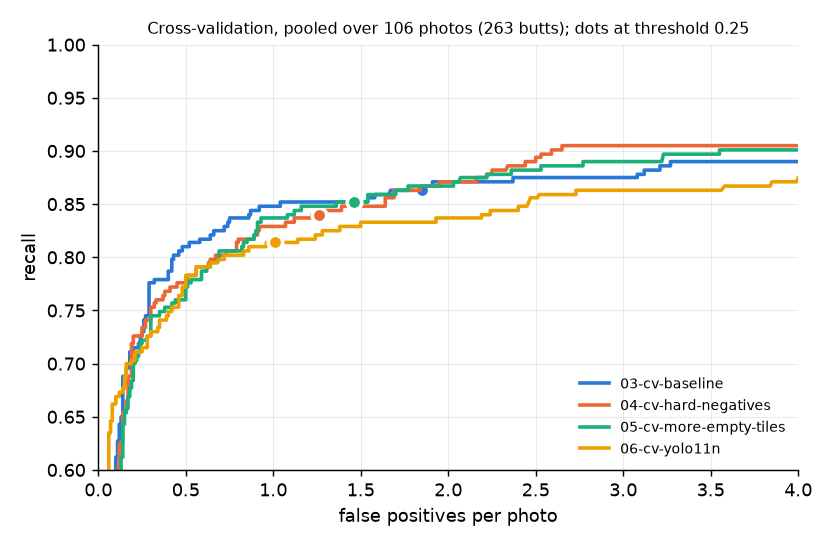
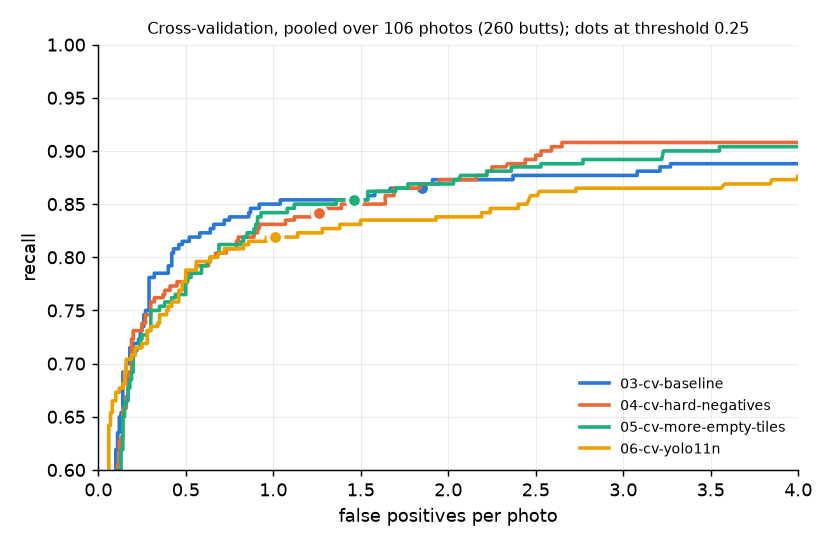
Sync pipeline from private commit 069f8a0

Changed region(s): [[0.125, 0.2491, 0.9688, 0.8407], [0.5938, 0.0311, 0.625, 0.0623]]

diff --git a/web_demo/app.js b/web_demo/app.js
@@ -24,7 +24,7 @@ const EXAMPLES = [
   ['20261001_134457', 'wide, sun, granite step and kerb'],
   ['20261001_135420', 'high angle, shade, tactile tiles'],
   ['20261001_134450', 'close-up, sun, corner with paper litter'],
-  ['20261001_134120', 'close-up, shade, one butt on tiles'],
+  ['20261001_134120', 'cigarillo end: out of scope, too unlike cigarette butts'],
   ['20261001_134126', 'high angle, shade, utility cover'],
   ['20261001_134937', 'wide, shade, blue tiles and bollards'],
   ['20261001_135001', 'wide, shade, shopfront and shutter'],

diff --git a/docs/cross-validation.md b/docs/cross-validation.md
@@ -1,6 +1,6 @@
 # Cross-validation: hard-negative tiles, butt-free tile share and model size
 
-**Scope label:** YOLO11s and YOLO11n trained on one phone session (Valencia, Spain, 2026-10-01); 5-fold cross-validation over the 106 train and val photos (263 butts), one seed per fold; folds 1–4 carry proposal-assisted labels.
+**Scope label:** YOLO11s and YOLO11n trained on one phone session (Valencia, Spain, 2026-10-01); 5-fold cross-validation over the 106 train and val photos (260 butts), one seed per fold; folds 1–4 carry proposal-assisted labels.
 
 ## Question
 
@@ -38,14 +38,14 @@ Runs are named `NN-what-it-tests`, numbered in the order they were made; `01` an
 
 | Fold | Photos | Butts | What it is |
 |---|---|---|---|
-| 0 | 19 | 46 | the frozen val split, labelled blind (no detector suggestions) |
+| 0 | 19 | 43 | the frozen val split, labelled blind (no detector suggestions) |
 | 1 | 23 | 77 | train photos, cut by 14 s time groups |
 | 2 | 21 | 72 | train photos |
 | 3 | 24 | 40 | train photos; holds every train close-up (6) and so its model learns close-ups from fold 0's 3 only |
 | 4 | 19 | 28 | train photos; holds most of the sunny photos |
 
-- **Training and scoring:** each recipe is trained once per fold on the other four folds and scored on the fold it did not see. All 20 runs trained on Kaggle's T4 machine, two at a time: 03 and 04 from one kernel, 05 and 06 each from a kernel of their own at later commits with unchanged training code. The models trained on the labels before the review of the error analysis's suspect boxes, which added 4 butts and 1 `maybe` in folds 1–4 (`error-analysis.md`); all scoring uses the reviewed labels. The shared harness (`pipeline/evaluate.py`) scores the final-epoch checkpoint (`last.pt`) on whole photos at threshold 0.25: 640 px tiles, detections mapped back to the photo and merged, a butt found when a detection's centre falls inside its box or they overlap by at least 30%, `maybe` boxes counting neither way.
-- **Pooled:** every one of the 106 photos is held out exactly once, so the pooled score is all 106 photos (263 butts), each scored by the model that did not train on it (`pipeline/cv_report.py`). The pooled curve applies one threshold to all five models of a recipe.
+- **Training and scoring:** each recipe is trained once per fold on the other four folds and scored on the fold it did not see. All 20 runs trained on Kaggle's T4 machine, two at a time: 03 and 04 from one kernel, 05 and 06 each from a kernel of their own at later commits with unchanged training code. The models trained on the labels before the review of the error analysis's suspect boxes, which added 4 butts and 1 `maybe` in folds 1–4 (`error-analysis.md`), and before the cigar-end rule (`annotation_tool/LABELING_POLICY.md`), which turned one cigarillo end seen in three fold 0 photos from `butt` into `maybe`; all scoring uses the current labels. The shared harness (`pipeline/evaluate.py`) scores the final-epoch checkpoint (`last.pt`) on whole photos at threshold 0.25: 640 px tiles, detections mapped back to the photo and merged, a butt found when a detection's centre falls inside its box or they overlap by at least 30%, `maybe` boxes counting neither way.
+- **Pooled:** every one of the 106 photos is held out exactly once, so the pooled score is all 106 photos (260 butts), each scored by the model that did not train on it (`pipeline/cv_report.py`). The pooled curve applies one threshold to all five models of a recipe.
 - **Paired comparison:** a bootstrap of 1,000 resamples of the same photos, scoring both recipes on each resample. A difference counts as real only when its 95% interval excludes zero.
 - **Matched recall:** a fixed threshold rewards any recipe that lowers its scores, so recipes are also compared at fixed recall: false positives per photo at the highest threshold whose pooled recall reaches the level (80%, 85%, 88%). The paired interval re-finds each recipe's threshold on every resample, on the same 1,000 resamples as the paired test. A resample in which a recipe never reaches the level is left out and counted.
 - **Labels:** folds 1–4 carry train labels, made with OWLv2's proposals on screen. Pooled scores therefore compare recipes with each other, not with OWLv2; the comparison with OWLv2 stays on fold 0.
@@ -59,25 +59,25 @@ Runs are named `NN-what-it-tests`, numbered in the order they were made; `01` an
 
 | | Recall | False positives per photo | Boxes per photo | Precision |
 |---|---|---|---|---|
-| 03 baseline | 86.3% (81.6–89.9%), 227 of 263 | 1.85 (1.45–2.25) | 4.46 | 0.57 |
-| 04 hard negatives | 84.0% (79.1–88.0%), 221 of 263 | 1.26 (0.98–1.57) | 3.74 | 0.65 |
-| 05 more empty tiles | 85.2% (80.4–89.0%), 224 of 263 | 1.46 (1.18–1.75) | 3.96 | 0.61 |
-| 06 YOLO11n | 81.4% (76.2–85.6%), 214 of 263 | 1.01 (0.77–1.22) | 3.39 | 0.69 |
+| 03 baseline | 86.5% (81.9–90.2%), 225 of 260 | 1.85 (1.45–2.25) | 4.46 | 0.56 |
+| 04 hard negatives | 84.2% (79.3–88.2%), 219 of 260 | 1.26 (0.98–1.57) | 3.74 | 0.64 |
+| 05 more empty tiles | 85.4% (80.6–89.2%), 222 of 260 | 1.46 (1.18–1.75) | 3.96 | 0.61 |
+| 06 YOLO11n | 81.9% (76.8–86.1%), 213 of 260 | 1.01 (0.77–1.22) | 3.39 | 0.69 |
 
 **Paired differences** (95% interval):
 
 | | Recall | False positives per photo |
 |---|---|---|
-| 04 − 03 | −2.3 points (−5.5 to +1.5): inside noise | −0.59 (−1.01 to −0.22): real |
-| 05 − 03 | −1.1 points (−3.9 to +1.7): inside noise | −0.39 (−0.71 to −0.10): real |
-| 04 − 05 | −1.2 points (−4.0 to +1.7): inside noise | −0.20 (−0.43 to +0.06): inside noise |
-| 06 − 04 | −2.6 points (−6.5 to +0.7): inside noise | −0.25 (−0.50 to −0.03): real |
+| 04 − 03 | −2.3 points (−5.6 to +1.5): inside noise | −0.59 (−1.01 to −0.22): real |
+| 05 − 03 | −1.1 points (−4.0 to +1.6): inside noise | −0.39 (−0.71 to −0.10): real |
+| 04 − 05 | −1.2 points (−4.0 to +1.8): inside noise | −0.20 (−0.43 to +0.06): inside noise |
+| 06 − 04 | −2.3 points (−6.4 to +0.9): inside noise | −0.25 (−0.50 to −0.03): real |
 
 **Per fold, at threshold 0.25** (butts found; false positives per photo):
 
 | Fold | Butts | 03 found | 04 found | 05 found | 06 found | 03 FP | 04 FP | 05 FP | 06 FP |
 |---|---|---|---|---|---|---|---|---|---|
-| 0 (val, blind) | 46 | 38 | 38 | 39 | 36 | 1.58 | 0.84 | 1.58 | 0.74 |
+| 0 (val, blind) | 43 | 36 | 36 | 37 | 35 | 1.58 | 0.84 | 1.58 | 0.74 |
 | 1 | 77 | 61 | 54 | 60 | 57 | 2.17 | 1.57 | 2.17 | 1.30 |
 | 2 | 72 | 62 | 62 | 59 | 59 | 2.81 | 1.90 | 1.48 | 0.95 |
 | 3 (close-ups) | 40 | 39 | 40 | 38 | 38 | 1.62 | 1.21 | 1.17 | 1.21 |
@@ -89,21 +89,21 @@ Runs are named `NN-what-it-tests`, numbered in the order they were made; `01` an
 
 | Recall at least | 03 | 04 | 05 | 06 |
 |---|---|---|---|---|
-| 80% | 0.43 (0.22–0.98), threshold 0.69 | 0.67 (0.26–1.57), threshold 0.48 | 0.69 (0.31–1.19), threshold 0.47 | 0.72 (0.33–2.52), threshold 0.35 |
-| 85% | 1.04 (0.39–3.81), threshold 0.42 | 1.64 (0.60–2.63), threshold 0.17 | 1.36 (0.65–3.08), threshold 0.26 | 2.46 (0.61–6.01), threshold 0.09 |
-| 88% | 3.12 (0.63–6.76), threshold 0.12 | 2.26 (0.89–5.18), threshold 0.10 | 2.36 (0.89–8.37), threshold 0.13 | 5.18 (1.26–8.03), threshold 0.03 |
+| 80% | 0.42 (0.21–0.95), threshold 0.70 | 0.64 (0.24–1.50), threshold 0.50 | 0.64 (0.29–1.09), threshold 0.51 | 0.64 (0.29–2.44), threshold 0.38 |
+| 85% | 0.92 (0.36–4.14), threshold 0.45 | 1.39 (0.58–2.60), threshold 0.21 | 1.12 (0.62–2.91), threshold 0.32 | 2.40 (0.56–5.98), threshold 0.10 |
+| 88% | 3.08 (0.59–6.92), threshold 0.13 | 2.22 (0.83–4.76), threshold 0.10 | 2.22 (0.82–8.13), threshold 0.15 | 4.25 (1.21–8.03), threshold 0.04 |
 
 **Paired differences at matched recall** (false positives per photo, 95% interval; `runs/cv_<A>_vs_<B>.json`):
 
 | Recall at least | 04 − 03 | 05 − 03 | 04 − 05 | 06 − 04 |
 |---|---|---|---|---|
-| 80% | +0.24 (−0.15 to +0.79) | +0.26 (−0.13 to +0.57) | −0.02 (−0.36 to +0.55) | +0.05 (−0.29 to +1.31) |
-| 85% | +0.60 (−1.70 to +1.13) | +0.32 (−1.48 to +1.26) | +0.28 (−0.92 to +0.88) | +0.82 (−0.30 to +3.84) |
-| 88% | −0.87 (−4.11 to +1.22) | −0.76 (−3.19 to +3.31) | −0.10 (−4.89 to +1.29) | +2.93 (−0.06 to +5.57) |
+| 80% | +0.23 (−0.13 to +0.76) | +0.23 (−0.10 to +0.54) | 0.00 (−0.30 to +0.60) | 0.00 (−0.33 to +1.31) |
+| 85% | +0.46 (−1.88 to +1.12) | +0.20 (−1.62 to +1.18) | +0.26 (−0.87 to +0.89) | +1.01 (−0.33 to +3.83) |
+| 88% | −0.86 (−4.27 to +1.09) | −0.86 (−3.52 to +2.84) | 0.00 (−4.74 to +1.23) | +2.03 (−0.12 to +5.48) |
 
-Every interval includes zero. 06 never reaches 85% recall in 46 of the 1,000 resamples and 88% in 320; 04 never reaches 88% in 16 (17 in the 04 − 05 pair); 05 never reaches 88% in 1. Those resamples are left out.
+Every interval includes zero. 06 never reaches 85% recall in 37 of the 1,000 resamples and 88% in 281; 04 never reaches 88% in 13 (14 in the 04 − 05 pair); 05 never reaches 88% in 1. Those resamples are left out.
 
-The highest recall each recipe reaches, at the lowest threshold kept (0.01), is 93.9% (03), 92.4% (04), 93.5% (05) and 89.0% (06).
+The highest recall each recipe reaches, at the lowest threshold kept (0.01), is 93.8% (03), 92.7% (04), 93.8% (05) and 89.2% (06).
 
 **Recall by butt size** (box long side, native px; pooled, threshold 0.25; no butt is under 20 px):
 
@@ -114,27 +114,27 @@ The highest recall each recipe reaches, at the lowest threshold kept (0.01), is 
 | 45–60 px | 55 | 45 (82%) | 44 (80%) | 44 (80%) | 43 (78%) |
 | 60–90 px | 74 | 62 (84%) | 63 (85%) | 63 (85%) | 61 (82%) |
 | 90–120 px | 53 | 52 (98%) | 49 (92%) | 52 (98%) | 50 (94%) |
-| 120 px and up | 45 | 41 (91%) | 41 (91%) | 41 (91%) | 38 (84%) |
+| 120 px and up | 42 | 39 (93%) | 39 (93%) | 39 (93%) | 37 (88%) |
 
 **By shot type** (pooled, threshold 0.25; recall with found butts, false positives per photo):
 
 | Shot type | Photos | Butts | 03 | 04 | 05 | 06 |
 |---|---|---|---|---|---|---|
-| Wide | 92 | 232 | 86% (200), 1.82 | 83% (193), 1.28 | 84% (196), 1.46 | 80% (186), 1.01 |
-| Close-up | 9 | 20 | 85% (17), 2.33 | 90% (18), 1.11 | 90% (18), 1.67 | 90% (18), 1.22 |
+| Wide | 92 | 230 | 86% (198), 1.82 | 83% (191), 1.28 | 84% (194), 1.46 | 80% (185), 1.01 |
+| Close-up | 9 | 19 | 89% (17), 2.33 | 95% (18), 1.11 | 95% (18), 1.67 | 95% (18), 1.22 |
 | High | 5 | 11 | 91% (10), 1.60 | 91% (10), 1.20 | 91% (10), 1.20 | 91% (10), 0.60 |
 
 **Fold 0 against run 02.** Fold 0's models train on the same 87 photos as `02-maybe-masked`, and 03 is 02's recipe; the val labels are identical (same label hash in all harness results).
 
 | | Checkpoint scored | Recall | False positives per photo | Source |
 |---|---|---|---|---|
-| 02 maybe masked | `best.pt` | 89.1% (41 of 46) | 2.37 | `runs/02-maybe-masked/02-maybe-masked_val.json` |
-| 03 baseline, fold 0 | `last.pt` | 82.6% (38 of 46) | 1.58 | `runs/03-cv-baseline_f0/03-cv-baseline_f0_val.json` |
-| 04 hard negatives, fold 0 | `last.pt` | 82.6% (38 of 46) | 0.84 | `runs/04-cv-hard-negatives_f0/04-cv-hard-negatives_f0_val.json` |
-| 05 more empty tiles, fold 0 | `last.pt` | 84.8% (39 of 46) | 1.58 | `runs/05-cv-more-empty-tiles_f0/05-cv-more-empty-tiles_f0_val.json` |
-| 06 YOLO11n, fold 0 | `last.pt` | 78.3% (36 of 46) | 0.74 | `runs/06-cv-yolo11n_f0/06-cv-yolo11n_f0_val.json` |
+| 02 maybe masked | `best.pt` | 90.7% (39 of 43) | 2.37 | `runs/02-maybe-masked/02-maybe-masked_val.json` |
+| 03 baseline, fold 0 | `last.pt` | 83.7% (36 of 43) | 1.58 | `runs/03-cv-baseline_f0/03-cv-baseline_f0_val.json` |
+| 04 hard negatives, fold 0 | `last.pt` | 83.7% (36 of 43) | 0.84 | `runs/04-cv-hard-negatives_f0/04-cv-hard-negatives_f0_val.json` |
+| 05 more empty tiles, fold 0 | `last.pt` | 86.0% (37 of 43) | 1.58 | `runs/05-cv-more-empty-tiles_f0/05-cv-more-empty-tiles_f0_val.json` |
+| 06 YOLO11n, fold 0 | `last.pt` | 81.4% (35 of 43) | 0.74 | `runs/06-cv-yolo11n_f0/06-cv-yolo11n_f0_val.json` |
 
-02 and 03 fold 0 differ in two ways besides training randomness: 02 kept the checkpoint with the best tile-level score on these same val photos (`best.pt`), which flatters it on val, and it validated after every epoch. The 3-butt gap is inside both runs' recall intervals (69.3–90.9% and 77.0–95.3%), so it does not separate checkpoint choice from training noise.
+02 and 03 fold 0 differ in two ways besides training randomness: 02 kept the checkpoint with the best tile-level score on these same val photos (`best.pt`), which flatters it on val, and it validated after every epoch. The 3-butt gap is inside both runs' recall intervals (70.0–91.9% and 78.4–96.3%), so it does not separate checkpoint choice from training noise.
 
 **Speed and size:**
 
@@ -153,16 +153,16 @@ On the same PC, the nano model scores a photo about 2.5–3 times faster than th
 - **Random butt-free tiles in the same share cut false positives by 0.4 per photo, also real; the hard-negative tiles' further 0.2 is inside noise.** On this data, about two thirds of the hard-negative gain at 0.25 is matched by more butt-free tiles of any kind, and the remaining third is not distinguishable from zero. This does not show that the tiles' content adds nothing: the interval reaches −0.43, the gain is concentrated in folds 0 and 1 where 05 does nothing, and 04 has more butt-free tiles and more butt tiles than 05.
 - **At matched recall, no pair of recipes differs by more than noise at 80%, 85% or 88%.** The fixed-threshold cuts of 04 and 05 against 03 are therefore not shown at equal recall: most of them comes from 04 and 05 giving lower scores overall, so the threshold 0.25 sits at a lower recall on a similar curve.
 - **The matched-recall intervals are wide** (up to 5 false positives per photo at 88%), because the curves are steep there: a few butts more or less in a resample move the threshold across many false positives. At this data size, matched recall cannot resolve differences of the size seen at threshold 0.25.
-- **YOLO11n is 2.5–3 times faster on CPU and gives up the high-recall end.** At 0.25 it has fewer false positives (real, −0.25) and 2.6 points less recall (inside noise), the same pattern of lower scores as above. At 80% recall it equals 04. Above that it falls behind: it reaches at most 89.0% recall against 92.4%, at 85% it has 0.82 more false positives per photo and at 88% 2.93 more, with intervals that include zero only narrowly at 88% (−0.06 to +5.57) and that leave out the 32% of resamples in which it never gets there. It loses most on the largest butts (120 px and up: 38 against 41 of 45) and on small ones (30–45 px: 22 against 24 of 34).
+- **YOLO11n is 2.5–3 times faster on CPU and gives up the high-recall end.** At 0.25 it has fewer false positives (real, −0.25) and 2.3 points less recall (inside noise), the same pattern of lower scores as above. At 80% recall it equals 04. Above that it falls behind: it reaches at most 89.2% recall against 92.7%, at 85% it has 1.01 more false positives per photo and at 88% 2.03 more, with intervals that include zero only narrowly at 88% (−0.12 to +5.48) and that leave out the 28% of resamples in which it never gets there. It loses most on the largest butts (120 px and up: 37 against 39 of 42) and on small ones (30–45 px: 22 against 24 of 34).
 - **Where recall moves:** 04 loses 7 butts in fold 1 and 04 and 05 lose a few small butts (30–45 px: 24 against 27 of 34). Each of these rests on a handful of butts and is inside the intervals.
 - **What this does not show:** whether the hard-negative content helps beyond tile count at a level this data can resolve; how any recipe does on new streets (all photos come from one 22-minute walk); how much of any difference is training randomness (one seed per fold); speed on any robot hardware.
 
 ## Known gaps
 
 - One seed per fold. The paired bootstrap resamples photos with the trained models held fixed, so training-to-training variation is not in any interval.
-- Matched-recall intervals leave out the resamples in which a recipe never reaches the level (up to 320 of 1,000 for 06 at 88%), which narrows them; values at 90% and above are read off the curves without an interval.
+- Matched-recall intervals leave out the resamples in which a recipe never reaches the level (up to 281 of 1,000 for 06 at 88%), which narrows them; values at 90% and above are read off the curves without an interval.
 - The pooled curve applies one threshold to five separately trained models whose scores need not be on the same scale.
-- Folds 1–4 carry labels made with OWLv2's proposals on screen; only fold 0's 46 butts are labelled blind. The models trained before 4 butts and 1 `maybe` were added in review; scoring uses the reviewed labels.
+- Folds 1–4 carry labels made with OWLv2's proposals on screen; only fold 0's 43 butts are labelled blind. The models trained before 4 butts and 1 `maybe` were added in review and before the cigar-end rule, so the models of folds 1–4 trained with one cigarillo end labelled `butt` in three fold 0 photos; scoring uses the current labels.
 - Fold 3 holds every train close-up and fold 4 most of the sun, so per-fold differences mix recipe with condition.
 - 05 matches 04's share of butt-free tiles, not their count, and not the extra butt tiles that hard-negative tiles bring.
 - 05 and 06 trained in separate kernels from 03 and 04; training code and data are the same, GPU nondeterminism is not controlled.

diff --git a/docs/training-runs.md b/docs/training-runs.md
@@ -6,26 +6,26 @@
 
 ![Recall against false positives per photo on the 19 validation photos for OWLv2, YOLO11s (04-cv-hard-negatives, fold 0) and YOLO11n (06-cv-yolo11n, fold 0), with speed per photo](fig/progress_val.png)
 
-The zero-shot baseline and the two current trained models on the same 19 validation photos (46 butts, labelled blind), scored by the same harness on the same labels (identical label hash in all three results). The trained models are the fold 0 models of the cross-validation (`cross-validation.md`): they trained on the 87 train photos and never saw these 19. One session, one seed per model, no intervals on the curves. Chart: `pipeline/progress_plot.py`; data: `eval/owlv2_val.json`, `runs/04-cv-hard-negatives_f0/04-cv-hard-negatives_f0_val.json`, `runs/06-cv-yolo11n_f0/06-cv-yolo11n_f0_val.json`.
+The zero-shot baseline and the two current trained models on the same 19 validation photos (43 butts, labelled blind), scored by the same harness on the same labels (identical label hash in all three results). The trained models are the fold 0 models of the cross-validation (`cross-validation.md`): they trained on the 87 train photos and never saw these 19. One session, one seed per model, no intervals on the curves. Chart: `pipeline/progress_plot.py`; data: `eval/owlv2_val.json`, `runs/04-cv-hard-negatives_f0/04-cv-hard-negatives_f0_val.json`, `runs/06-cv-yolo11n_f0/06-cv-yolo11n_f0_val.json`.
 
 **At each model's operating threshold** (95% intervals: Wilson for recall, a bootstrap over whole photos for false positives):
 
 | | Threshold | Recall | False positives per photo |
 |---|---|---|---|
-| OWLv2, zero-shot | 0.10 | 97.8% (88.7–99.6%), 45 of 46 | 7.3 (4.7–10.7) |
-| YOLO11s, `04-cv-hard-negatives` fold 0 | 0.25 | 82.6% (69.3–90.9%), 38 of 46 | 0.84 (0.47–1.32) |
-| YOLO11n, `06-cv-yolo11n` fold 0 | 0.25 | 78.3% (64.4–87.7%), 36 of 46 | 0.74 (0.37–1.16) |
+| OWLv2, zero-shot | 0.10 | 97.7% (87.9–99.6%), 42 of 43 | 7.3 (4.7–10.7) |
+| YOLO11s, `04-cv-hard-negatives` fold 0 | 0.25 | 83.7% (70.0–91.9%), 36 of 43 | 0.84 (0.47–1.32) |
+| YOLO11n, `06-cv-yolo11n` fold 0 | 0.25 | 81.4% (67.4–90.3%), 35 of 43 | 0.74 (0.37–1.16) |
 
 **At matched recall** (false positives per photo at the highest threshold whose recall reaches the level, read from each model's curve):
 
 | Recall at least | OWLv2 | YOLO11s (04, fold 0) | YOLO11n (06, fold 0) |
 |---|---|---|---|
-| 70% | 0.58 | 0.05 | 0.00 |
-| 80% | 1.00 | 0.42 | 0.95 |
-| 85% | 1.26 | 1.89 | 2.68 |
-| 89% | 1.37 | 2.00 | not reached |
-| 97.8% | 6.79 | not reached | not reached |
-| Highest recall reached | 100% | 89.1% | 87.0% |
+| 70% | 0.53 | 0.05 | 0.00 |
+| 80% | 1.00 | 0.42 | 0.37 |
+| 85% | 1.26 | 1.37 | 1.95 |
+| 90% | 1.37 | 2.00 | not reached |
+| 97.7% | 2.47 | not reached | not reached |
+| Highest recall reached | 100% | 90.7% | 88.4% |
 
 The trained models' highest recall is at the lowest threshold kept (0.01); OWLv2 reaches 100% at its raw cutoff (0.05).
 
@@ -41,8 +41,8 @@ The T4 figures are Ultralytics' end-of-training timing (`runs/<run>/kaggle/train
 
 **Reading:**
 
-- **At strict settings (70–80% recall) both trained models match or beat OWLv2:** at 80% recall YOLO11s has 0.42 false positives per photo against OWLv2's 1.00, and YOLO11n 0.95.
-- **From about 85% recall up, OWLv2 is more precise, and the trained models cannot reach its high-recall range.** At 85% OWLv2 has 1.26 false positives per photo against 1.89 (YOLO11s) and 2.68 (YOLO11n); YOLO11s stops at 89.1% recall and YOLO11n at 87.0%, while OWLv2 goes on to 97.8% at 6.79 false positives per photo.
+- **At strict settings (70–80% recall) both trained models match or beat OWLv2:** at 80% recall YOLO11s has 0.42 false positives per photo against OWLv2's 1.00, and YOLO11n 0.37.
+- **From about 85% recall up, OWLv2 is more precise, and the trained models cannot reach its high-recall range.** At 85% OWLv2 has 1.26 false positives per photo against 1.37 (YOLO11s) and 1.95 (YOLO11n); YOLO11s stops at 90.7% recall and YOLO11n at 88.4%, while OWLv2 goes on to 97.7% at 2.47 false positives per photo.
 - **YOLO11n trades the high-recall end for speed:** about 3 times faster than YOLO11s on this CPU for these two models (2.5–3 times across all cross-validation runs, `cross-validation.md`) and about 58 times faster than OWLv2 (YOLO11s: about 18 times).
 - **Every gap here rests on a few butts.** One butt is about 2 points of recall, the operating-point intervals overlap between the two trained models, and the pooled cross-validation over 106 photos finds no difference between 04 and 06 at 80%, 85% or 88% recall that clears noise (`cross-validation.md`). The comparison with OWLv2 exists only on these 19 photos, because folds 1–4 carry labels made with OWLv2's proposals on screen.
 - **The comparison flatters the trained models** for the reason given under runs 01 and 02 below: the validation photos come from the same walk as the training photos.
@@ -64,7 +64,7 @@ The T4 figures are Ultralytics' end-of-training timing (`runs/<run>/kaggle/train
 
 - **Training data:** 87 train photos cut into 640 px square tiles at native resolution, 384 px spacing. A box is a target in a tile when at least 80% of it is inside. Train holds every tile with a target (419) plus empty tiles making up 10% of train (47): 466 tiles, 510 targets.
 - **Training:** Ultralytics' defaults, including its augmentation (mosaic, zoom 0.5–1.5×, translation, horizontal mirror, colour), 100 epochs, tiles cached on disk. Both runs trained at the same time on Kaggle's T4 machine, one GPU each, from one kernel.
-- **Scoring:** the shared evaluation harness (`pipeline/evaluate.py`) on the 19 validation photos (46 butts, labelled blind, without detector suggestions). Each photo is tiled on the same 640 px grid, detections are mapped back to the full photo and merged (NMS at IoU 0.3). A butt is found when a detection's centre falls inside its box or the two overlap by at least 30%. `maybe` boxes count neither way. Operating threshold 0.25 for both runs (OWLv2: 0.10).
+- **Scoring:** the shared evaluation harness (`pipeline/evaluate.py`) on the 19 validation photos (43 butts, labelled blind, without detector suggestions). Each photo is tiled on the same 640 px grid, detections are mapped back to the full photo and merged (NMS at IoU 0.3). A butt is found when a detection's centre falls inside its box or the two overlap by at least 30%. `maybe` boxes count neither way. Operating threshold 0.25 for both runs (OWLv2: 0.10).
 - **Records:** each run's full config, commits, label hash, training output and harness result sit in its run directory (`runs/01-maybe-as-background/`, `runs/02-maybe-masked/` in the project repository).
 
 ### Results
@@ -75,22 +75,21 @@ The T4 figures are Ultralytics' end-of-training timing (`runs/<run>/kaggle/train
 
 | | Threshold | Recall | False positives per photo | Boxes per photo | Precision |
 |---|---|---|---|---|---|
-| OWLv2 (baseline) | 0.10 | 97.8% (88.7–99.6%) | 7.3 (4.7–10.7) | 10.3 | 0.27 |
-| 01 maybe as background | 0.25 | 82.6% (69.3–90.9%) | 1.6 (1.0–2.2) | 3.8 | 0.58 |
-| 02 maybe masked | 0.25 | 89.1% (77.0–95.3%) | 2.4 (1.6–3.3) | 5.0 | 0.51 |
+| OWLv2 (baseline) | 0.10 | 97.7% (87.9–99.6%) | 7.3 (4.7–10.7) | 10.3 | 0.25 |
+| 01 maybe as background | 0.25 | 83.7% (70.0–91.9%) | 1.6 (1.0–2.2) | 3.8 | 0.55 |
+| 02 maybe masked | 0.25 | 90.7% (78.4–96.3%) | 2.4 (1.6–3.3) | 5.0 | 0.48 |
 
 **At matched recall** (false positives per photo at the highest threshold reaching the recall, from each model's curve):
 
 | Recall at least | OWLv2 | Run 01 | Run 02 |
 |---|---|---|---|
-| 80% | 1.0 | 0.4 | 0.7 |
-| 85% | 1.3 | 4.3 | 2.3 |
-| 89% | 1.4 | 4.3 | 2.3 |
-| 91% | 2.4 | not reached | 3.4 |
-| 95.7% | 2.5 | not reached | 5.6 |
-| 97.8% | 6.8 | not reached | 6.0 |
+| 80% | 1.0 | 0.3 | 0.7 |
+| 85% | 1.3 | 3.7 | 1.0 |
+| 90% | 1.4 | 4.3 | 2.3 |
+| 95% | 2.4 | not reached | 5.6 |
+| 97.7% | 2.5 | not reached | 6.0 |
 
-Run 01 never exceeds 89.1% recall, even at the lowest threshold kept (0.01). Run 02 and OWLv2 both reach 100%.
+Run 01 never exceeds 90.7% recall, even at the lowest threshold kept (0.01). Run 02 and OWLv2 both reach 100%.
 
 **Recall by butt size** (box long side, native px; at the operating thresholds):
 
@@ -100,14 +99,14 @@ Run 01 never exceeds 89.1% recall, even at the lowest threshold kept (0.01). Run
 | 45–60 px | 9 | 8 | 7 | 8 |
 | 60–90 px | 13 | 13 | 11 | 12 |
 | 90–120 px | 8 | 8 | 8 | 8 |
-| 120 px and up | 11 | 11 | 9 | 9 |
+| 120 px and up | 8 | 8 | 7 | 7 |
 
 **By shot type** (recall, false positives per photo):
 
 | Shot type | Photos | Butts | OWLv2 | Run 01 | Run 02 |
 |---|---|---|---|---|---|
-| Wide | 14 | 32 | 97% (31), 5.2 | 84% (27), 1.5 | 97% (31), 2.1 |
-| Close-up | 3 | 8 | 100% (8), 13.0 | 75% (6), 1.7 | 63% (5), 3.7 |
+| Wide | 14 | 30 | 97% (29), 5.2 | 83% (25), 1.5 | 97% (29), 2.1 |
+| Close-up | 3 | 7 | 100% (7), 13.0 | 86% (6), 1.7 | 71% (5), 3.7 |
 | High | 2 | 6 | 100% (6), 13.0 | 83% (5), 2.0 | 83% (5), 2.0 |
 
 **Speed and size:**
@@ -124,19 +123,19 @@ The T4 figures are Ultralytics' own timing during its final validation (batched 
 ### Reading
 
 - **Speed:** the trained model is about 23–25 times faster than OWLv2 on the same CPU, from about 11 times less compute. On a T4 it needs about 0.6–0.7 s per photo.
-- **Accuracy is in OWLv2's range, not clearly better or worse.** The trained models produce fewer false positives at low recall (below about 85%), OWLv2 produces fewer between about 85% and 96%, and run 02 is slightly ahead again at OWLv2's own recall (97.8%). The fixed-threshold numbers alone (1.6–2.4 against 7.3 false positives) overstate the trained models, because their thresholds sit at a lower recall.
-- **`maybe` handling: inconclusive.** Run 02 (masked) is ahead on recall at the same threshold (89.1% against 82.6%) and is the only trained run that reaches high recall at all, but the operating-point intervals overlap, and each run has one seed, so training noise is not separated from the setting. Masking is the better-supported setting on this evidence, not a proven one.
-- **Where the trained models miss:** both miss 2 of the 11 largest butts (120 px and up) that OWLv2 finds, and close-ups are their weakest shot type (5–6 of 8). With 3 close-up photos, this is a pattern to check, not a finding; one candidate cause is that close-ups are few in train, another that large butts are cut by more tile borders. Neither has been tested.
+- **Accuracy is in OWLv2's range, not clearly better or worse.** The trained models produce fewer false positives at low recall (below about 85%), OWLv2 produces fewer from about 85% up to its own operating recall (97.7%: 2.5 false positives per photo against run 02's 6.0). The fixed-threshold numbers alone (1.6–2.4 against 7.3 false positives) overstate the trained models, because their thresholds sit at a lower recall.
+- **`maybe` handling: inconclusive.** Run 02 (masked) is ahead on recall at the same threshold (90.7% against 83.7%) and is the only trained run that reaches high recall at all, but the operating-point intervals overlap, and each run has one seed, so training noise is not separated from the setting. Masking is the better-supported setting on this evidence, not a proven one.
+- **Where the trained models miss:** both miss 1 of the 8 largest butts (120 px and up) that OWLv2 finds, and close-ups are their weakest shot type (5–6 of 7). With 3 close-up photos, this is a pattern to check, not a finding; one candidate cause is that close-ups are few in train, another that large butts are cut by more tile borders. Neither has been tested.
 - **The comparison flatters the trained models.** Validation photos come from the same 22-minute walk as the training photos (same streets, light and phone), while OWLv2 was never fitted to this session. Equal scores here do not show equal accuracy on new streets.
 
 ## Known gaps
 
-- 19 validation photos and 46 butts: one butt is about 2 points of recall, and most differences above are inside the intervals.
+- 19 validation photos and 43 butts: one butt is about 2 points of recall, and most differences above are inside the intervals.
 - One seed per run; the run-to-run spread of training is not measured.
 - Validation shares the session with training; no held-out session exists yet.
 - No validation butt is under 30 px, so these results say nothing about the trained model's size floor; the downscale test has not been repeated on it.
 - The test split has not been scored; it is reserved for the finalist.
 - T4 timings come from Ultralytics' batched validation, not from whole-photo scoring, and nothing has been timed on robot hardware.
 - The causes of the large-butt and close-up misses are untested.
-- The 04 and 06 fold 0 models trained before the label review that added 4 butts and 1 `maybe` to train photos (`error-analysis.md`); the validation labels are unchanged by it.
+- The 04 and 06 fold 0 models trained before the label review that added 4 butts and 1 `maybe` to train photos (`error-analysis.md`); the validation labels are unchanged by it. The cigar-end rule (`annotation_tool/LABELING_POLICY.md`) makes one cigarillo end in three validation photos `maybe`; no fold 0 model trained on validation photos, so it changes scoring only.
 - CPU times come from one harness pass per model on this PC, with other work running at times; OWLv2's time per photo ranged 75–154 s within its pass (`owlv2-baseline.md`).

diff --git a/web_demo/README.md b/web_demo/README.md
@@ -26,18 +26,18 @@ Measured accuracy (threshold 0.25 unless stated):
 
 | | Recall | False positives per photo | Source |
 |---|---|---|---|
-| YOLO11s adjusted (04 fold 0), 19 val photos | 82.6% (38 of 46) | 0.84 | `docs/cross-validation.md` |
-| YOLO11n fast (06 fold 0), 19 val photos | 78.3% (36 of 46) | 0.74 | `docs/cross-validation.md` |
-| YOLO11s first (02), 19 val photos | 89.1% (41 of 46) | 2.37 | `docs/cross-validation.md` |
-| Recipe 04 (hard negatives), pooled over 106 photos (5 folds) | 84.0% | 1.26 | `docs/cross-validation.md` |
-| Recipe 06 (04 on YOLO11n), pooled over 106 photos (5 folds) | 81.4% | 1.01 | `docs/cross-validation.md` |
-| Recipe 02, as run `03-cv-baseline`, pooled over 106 photos (5 folds) | 86.3% | 1.85 | `docs/cross-validation.md` |
+| YOLO11s adjusted (04 fold 0), 19 val photos | 83.7% (36 of 43) | 0.84 | `docs/cross-validation.md` |
+| YOLO11n fast (06 fold 0), 19 val photos | 81.4% (35 of 43) | 0.74 | `docs/cross-validation.md` |
+| YOLO11s first (02), 19 val photos | 90.7% (39 of 43) | 2.37 | `docs/cross-validation.md` |
+| Recipe 04 (hard negatives), pooled over 106 photos (5 folds) | 84.2% | 1.26 | `docs/cross-validation.md` |
+| Recipe 06 (04 on YOLO11n), pooled over 106 photos (5 folds) | 81.9% | 1.01 | `docs/cross-validation.md` |
+| Recipe 02, as run `03-cv-baseline`, pooled over 106 photos (5 folds) | 86.5% | 1.85 | `docs/cross-validation.md` |
 
-- Pooled scores use the reviewed labels. Recipe 04's false-positive cut against 02's recipe (0.59 per photo) is real
+- Pooled scores use the current labels (after the label review and the cigar-end rule). Recipe 04's false-positive cut against 02's recipe (0.59 per photo) is real
   by the paired bootstrap; the recall difference (−2.3 points) is inside noise. Recipe 06 against 04: 0.25 fewer false
   positives per photo (real), −2.6 points recall (inside noise).
 - At matched recall (80%, 85%, 88%) every paired difference is inside noise, so most of the gains at threshold 0.25
-  come from lower scores overall. YOLO11n reaches at most 89.0% recall at the lowest threshold, against 92.4% for 04.
+  come from lower scores overall. YOLO11n reaches at most 89.2% recall at the lowest threshold, against 92.7% for 04.
 - Run `05-cv-more-empty-tiles` (recipe 02 with as many random butt-free tiles as recipe 04 has) cuts false positives
   per photo to 1.46 (real against 1.85); recipe 04's further 0.20 is inside noise. Much of the hard-negative gain is
   matched by more butt-free tiles of any kind.
@@ -46,8 +46,8 @@ Measured accuracy (threshold 0.25 unless stated):
 **Score bands, no threshold:** the page shows every detection down to the raw floor (0.01), labelled with its score
 in percent and coloured by band: green at 78% and up, orange at 65–78%, red below 65%. This README gives each
 model's recall and false positives per photo on the 19 val photos counting from each band up (from the harness's
-curve in each run's `_val.json`): green only 74% / 0.05 (adjusted), 72% / 0 (fast), 67% / 0.26 (first); green and
-orange 78% / 0.16, 74% / 0.11, 80% / 0.68; all boxes 89% / 9.6, 87% / 7.4, 100% / 21. The models' scores are not on
+curve in each run's `_val.json`): green only 77% / 0.05 (adjusted), 74% / 0 (fast), 72% / 0.26 (first); green and
+orange 79% / 0.16, 77% / 0.11, 81% / 0.68; all boxes 91% / 9.6, 88% / 7.4, 100% / 21. The models' scores are not on
 the same scale.
 
 ## Files

diff --git a/annotation_tool/LABELING_POLICY.md b/annotation_tool/LABELING_POLICY.md
@@ -6,7 +6,7 @@ This policy covers every image in `data/images/`, annotated with the tool (`pipe
 
 - **butt:** the annotator sees a butt.
 - **maybe:** it is likely a butt, but not certain.
-- Nothing else is labelled. No category rules (fragments, roach tips, heated-tobacco sticks, cigar ends, off-ground butts) were set; each case was judged by eye under the two definitions above.
+- Nothing else is labelled. One category rule is set: **cigar and cigarillo ends are `maybe`** (out of scope for now). They are tobacco litter, but look unlike cigarette butts (brown leaf wrapper, no filter), so they are kept out of both training signal and scoring rather than labelled background. The rule was applied to every image; the only case is one cigarillo end seen in three val images (`20261001_134111`, `20261001_134116`, `20261001_134120`). No other category rules (fragments, roach tips, heated-tobacco sticks, off-ground butts) were set; each case was judged by eye under the two definitions above.
 - Boxes are drawn around the visible butt. Touching butts get one box each.
 
 ## How confidence behaved in practice
